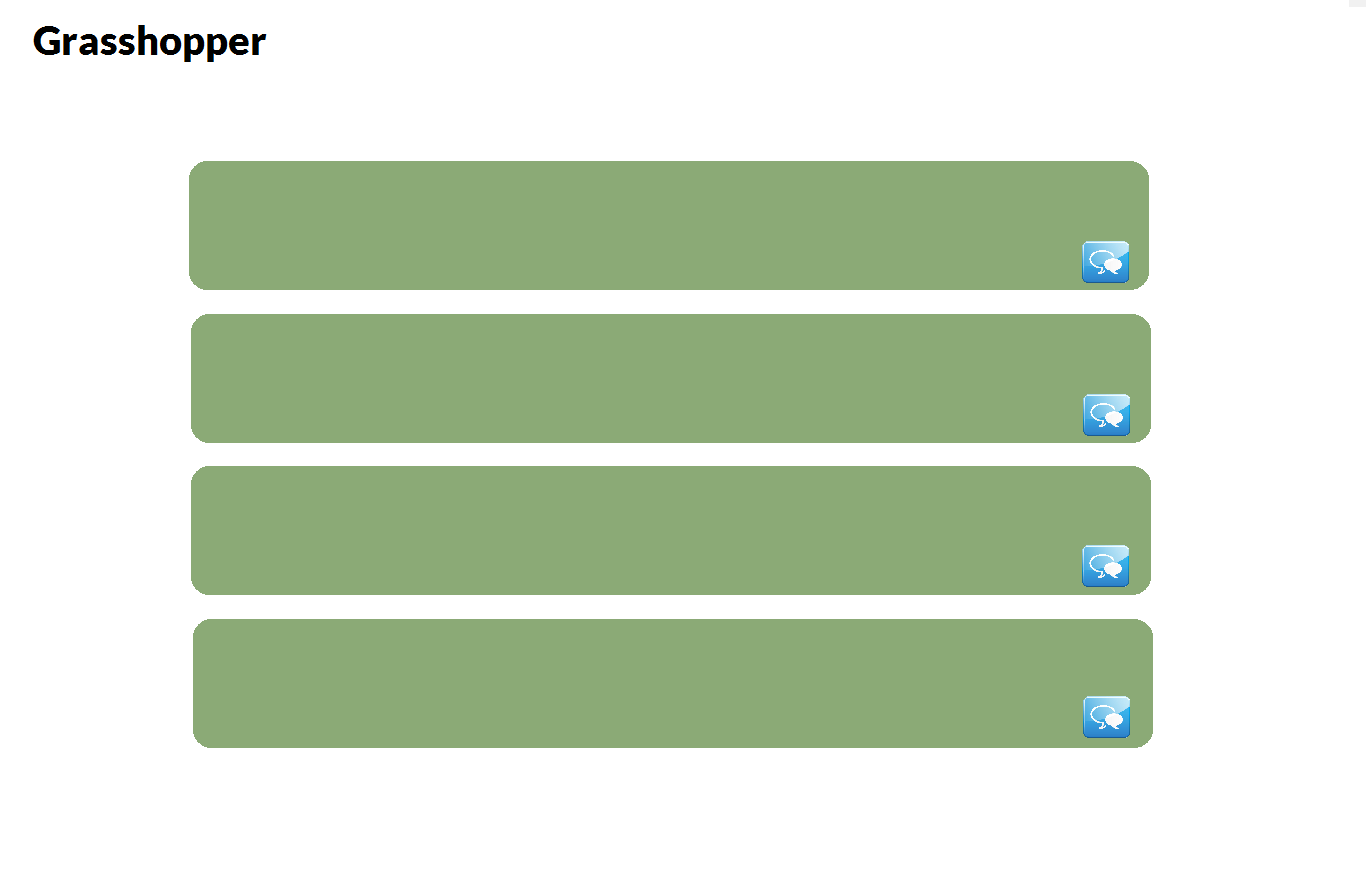
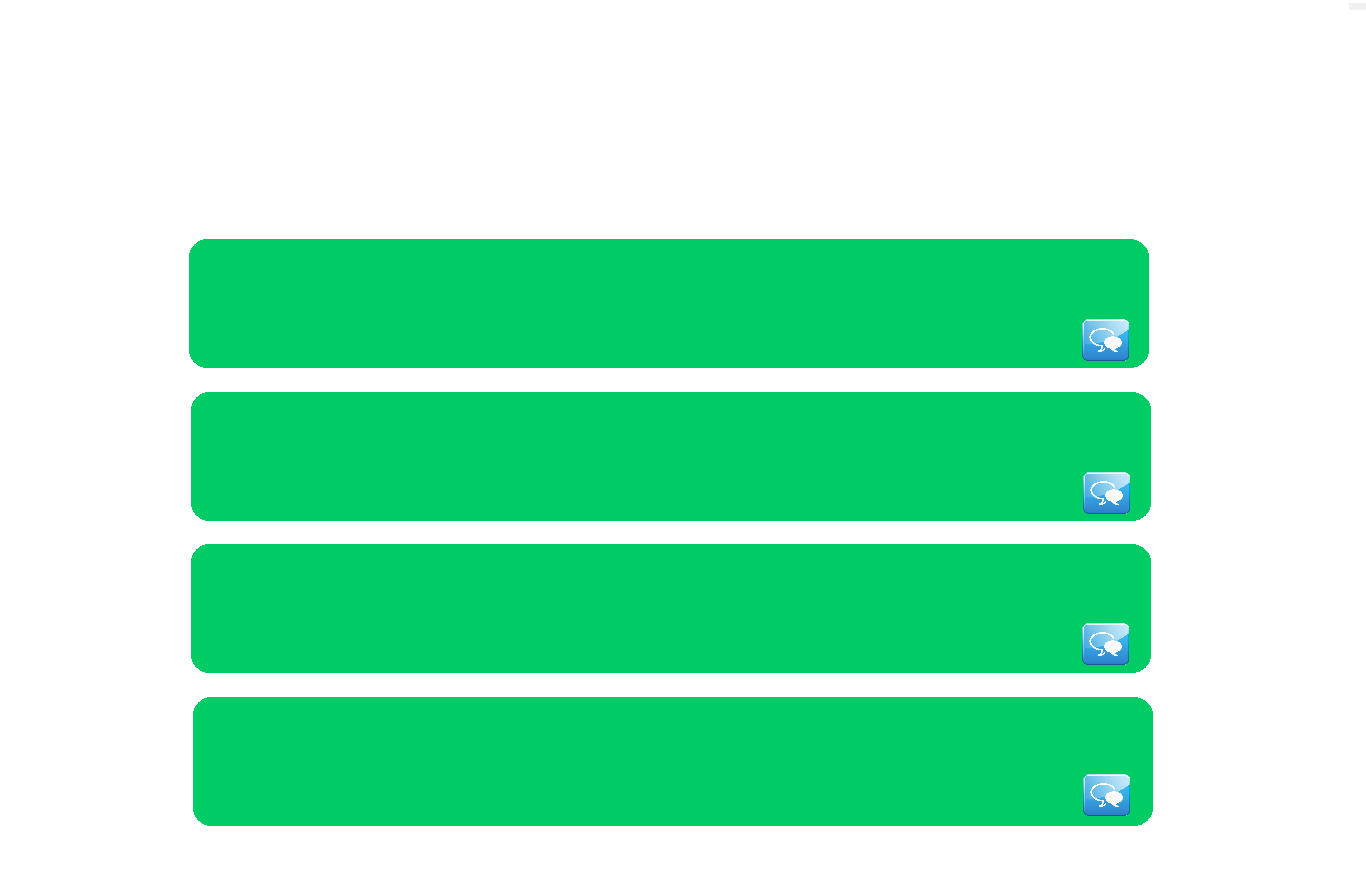
various mentor/mentee updates

diff --git a/mentees.html b/mentees.html
@@ -2,11 +2,23 @@
     <head>
         <link type="text/css" rel="stylesheet" href="mentors.css" />
         <link href='http://fonts.googleapis.com/css?family=Lato:400,700' rel='stylesheet' type='text/css'>
-        <title>Grasshopper Matches</title>
+        <title>Mentor Matches</title>
     </head>
     <body>
 
-        <p><input type="text" name="login" value="" placeholder="Search your matches..."></p>
+    <div class = "nav">
+      <div class = "nav-row">
+        <div class = "col-md-9">
+          <div class = "logo">
+            <a href="index.html" style="color:#00cc66">Grasshopper</a>
+          </div>
+        </div>
+        <div class = "col-md-3">
+              <p><input type="text" name="login" value="" placeholder="Search your matches..."></p>
+            </div>
+          </div>
+    </div>
+    
         <h1> You matched with 9 Grasshoppers! </h1>
         <h3> Displaying 4 out of 9 Grasshoppers. </h3>
 

diff --git a/mentors.html b/mentors.html
@@ -6,7 +6,19 @@
     </head>
     <body>
 
-    <p><input type="text" name="login" value="" placeholder="Search your matches..."></p>
+    <div class = "nav">
+      <div class = "nav-row">
+        <div class = "col-md-9">
+          <div class = "logo">
+            <a href="index.html" style="color:#00cc66">Grasshopper</a>
+          </div>
+        </div>
+        <div class = "col-md-3">
+              <p><input type="text" name="login" value="" placeholder="Search your matches..."></p>
+            </div>
+          </div>
+    </div>
+
     <h1> You matched with 24 mentors! </h1>
     <h3> Displaying 4 out of 24 mentors. </h3>
 

diff --git a/mentors.css b/mentors.css
@@ -1,5 +1,5 @@
 p { 
-	margin-top: 70x;
+	margin-top: 0px;
 	margin-left:900px; 
 	margin-right:100px;
 	margin-bottom:0px;
@@ -7,6 +7,21 @@ p {
 	font-family: "Lato";
   font-size: 14px;
 }
+
+.nav .nav-row .logo {
+  font-family: 'Lato', sans-serif;
+  padding: 4px;
+  color: #00cc66;
+  font-size: 50px;
+  font-weight: bold;
+  margin-left: 20px;
+  display: inline;
+}
+
+.nav .nav-row .col-md-3 {
+  display: inline;
+}
+
 input[type=text] { width: 278px; }
 
 :-moz-placeholder {
